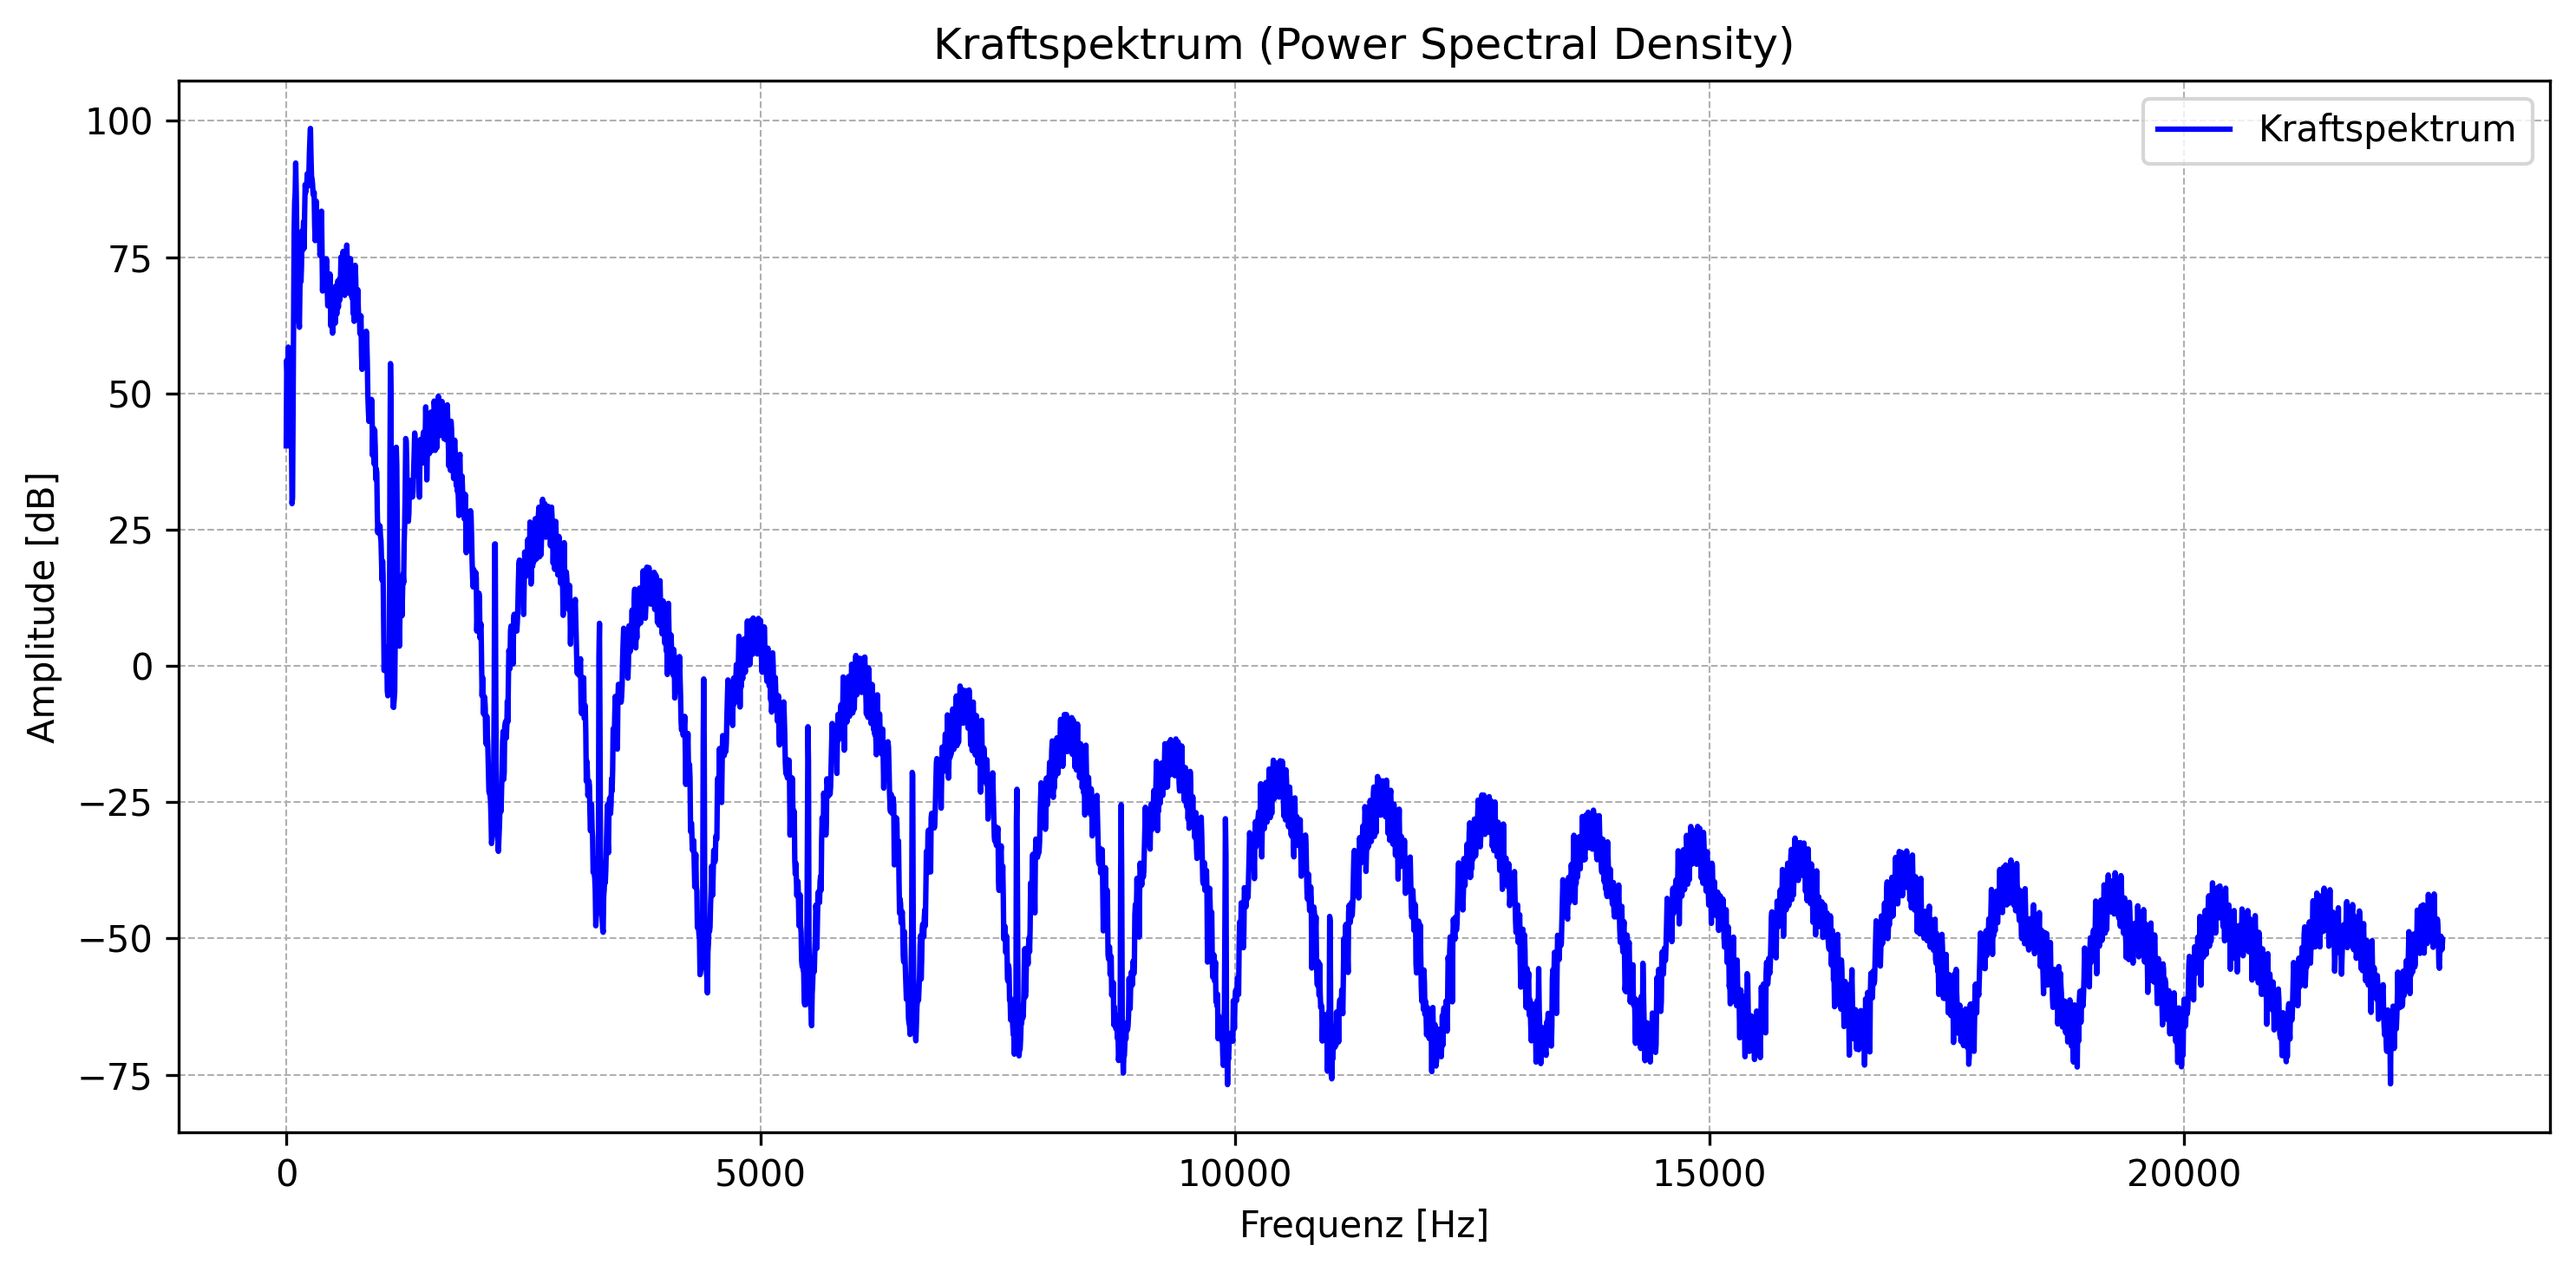
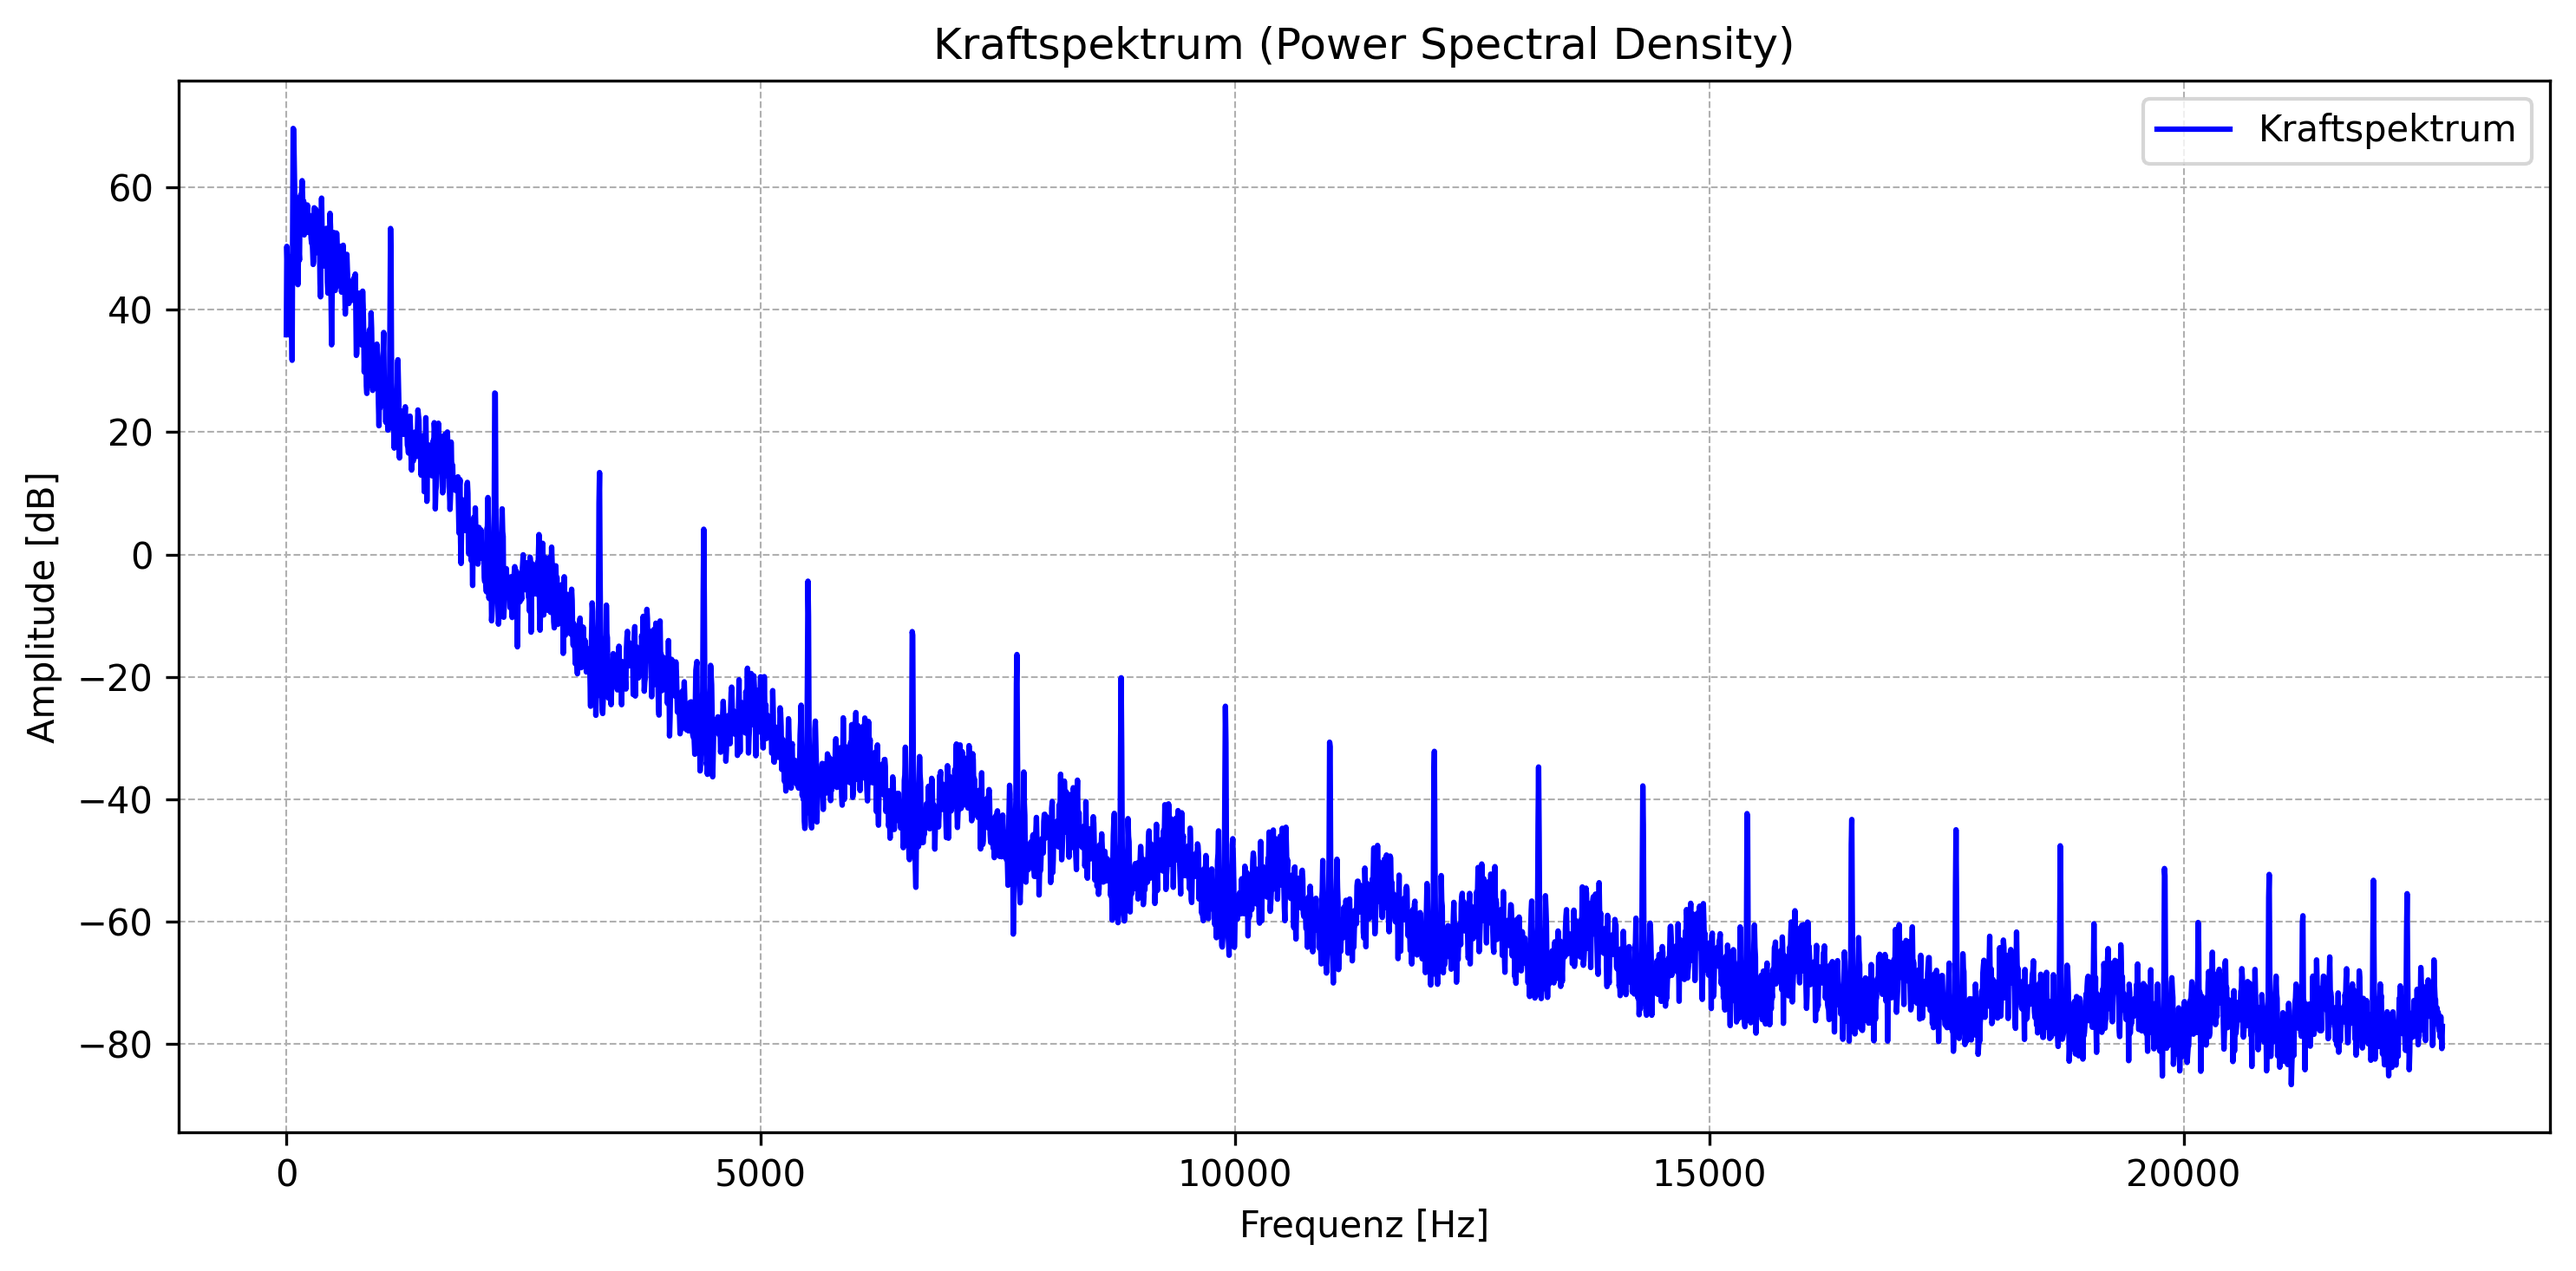
Hertz Calculation: --> without ramp --> without static part

diff --git a/rolland/deflection.py b/rolland/deflection.py
@@ -176,45 +176,29 @@ class DeflectionEBBVertic(Deflection):
 
         wheel_ID = 0
         for pos in excitation_pos:
-            if len(self.force) <= t and self.excit.use_contact_model:  # if force for current time step is not yet calculated and contact model is enabled, calculate force using Hertzian contact model
+            if self.excit.use_contact_model:
                 # Initialize variables for Hertzian contact calculation
-                force = -np.inf  # Initial force
-                max_iter = 100  # Maximum number of iterations
-                eps = 1e-6  # Convergence criterion
-
-
-
-                nu = self.track.rail.nu  # Poisson's ratio of the rail
-                G = self.track.rail.G  # Shear modulus of the rail
-                Ra = 0.35 # NOTE: hardcoded parameter, get from wheel geometry if available
-                alpha = 1 # NOTE: hardcoded parameter, get from wheel geometry if available
-                C = ((2*(1-nu))/(G*np.sqrt(Ra)))**(2/3) * alpha
-
-                static_force = self.excit.force_amplitude  # Static force at t=0, can be adjusted if needed
-                delta_0 = C*static_force**(2/3)  # Initial guess for penetration based on static force, can be adjusted if needed
-
-
-                # self.excit.roughness = list(8e-6 * np.random.randn(n))   # TODO: move roughness generation to excitation class and make it more realistic (e.g., using a power spectral density)
-
-
+                force       = -np.inf               # Initial force
+                max_iter    = 100                   # Maximum number of iterations
+                eps         = 1e-6                  # Convergence criterion
+                nu          = self.track.rail.nu    # Poisson's ratio of the rail
+                G           = self.track.rail.G     # Shear modulus of the rail
+                Ra          = 0.35                  # NOTE: hardcoded parameter, get from wheel geometry if available
+                alpha       = 1                     # NOTE: hardcoded parameter, get from wheel geometry if available
+                C           = ((2*(1-nu))/(G*np.sqrt(Ra)))**(2/3) * alpha
 
                 for i in range(max_iter):
-                    # TODO: function for interpolation --> handle on point
-                    # TODO: function for spreading --> also handle on point
-                    # TODO: fix this whole mess!!!
 
                     # Calculate rail deflection, roughness, and wheel deflection
                     y_r = self.interpolate(pos, u1)                     # Interpolated rail deflection at excitation point
                     y_s = self.interpolate(pos, self.excit.roughness)   # Interpolated track roughness at excitation point
-                    y_w = self.wheel_deflection[wheel_ID][t-1]                            # Wheel deflection TODO: add wheel deflection calculation
+                    y_w = self.wheel_deflection[wheel_ID][t-1]          # Wheel deflection
 
                     # Calculate geometric penetration
-                    # TODO: get this right, check directions of deflection and roughness, and add wheel deflection
-                    # y_r: rail deflection, positive if rail moves downwards
-                    delta_lin = self.y_static - y_r + y_s - y_w
-                    delta_lin += delta_0
+                    # y_r: rail deflection, positive if rail moves downwards TODO: flip it
+                    delta_lin = - y_r + y_s - y_w
 
-                    if delta_lin <= 0: # NOTE: should we check before adding delta_0?
+                    if delta_lin <= 0:
                         force = 0
                         self.force.append(force)  # Store the converged force value for the current time step
                         break
@@ -253,13 +237,9 @@ class DeflectionEBBVertic(Deflection):
             # k_w = 0
             # update wheel deflection, velocity, and acceleration
             self.wheel_acceleration[wheel_ID][t] = (force - k_w*self.wheel_deflection[wheel_ID][t-1] - d_w*self.wheel_velocity[wheel_ID][t-1]) / M_w
+            
             self.wheel_velocity[wheel_ID][t] = self.wheel_velocity[wheel_ID][t-1] + self.wheel_acceleration[wheel_ID][t] * self.discr.dt
             self.wheel_deflection[wheel_ID][t] = self.wheel_deflection[wheel_ID][t-1] + self.wheel_velocity[wheel_ID][t] * self.discr.dt
-
-
-
-
-
 
         return (self.discr.B.dot(u1) + self.discr.C.dot(u0) + self.discr.dt ** 2 /
                 (self.track.rail.mr * self.discr.dx) * f_vec)
@@ -291,63 +271,6 @@ class DeflectionEBBVertic(Deflection):
         
         # Factorization of matrix A (LU decomposition)
         self.factoriz = splu(self.discr.A)
-
-        
-
-        # # calculate static defletion at t=0 (initial condition)
-        # defl_static = zeros((2*self.discr.nx, 10000))   # TODO: put back to 3
-        # eps = 2e-6  # convergence criterion
-        # step = 0  # initialize time step for static deflection calculation
-        # diff = np.inf  # initialize difference for convergence check
-        # while diff > eps:  # iterate until convergence is met
-        #     # pos = step % 3  # position in the static deflection array (0, 1, or 2)  TODO: put back in use
-        #     self.crank_nicolson_step(defl_static, t=step, excitation_pos=self.excitation_indices)
-        #     if step > 1:
-        #         diff = np.max(np.abs( defl_static[:,step] - defl_static[:,step-1] ))  # update difference for convergence check
-        #     step += 1
-        #     if step == 10000:
-        #         break
-        #     # if step % 100 == 0:
-        #     #     print(f"Static deflection calculation - Step {step}, Max difference: {diff:.2e}")
-        # # TODO: line this up with the start of dynamic calculation
-        # defl[:, 0] = defl_static[:, step-1]  # set initial deflection to converged static deflection
-        # defl[:, -1] = defl_static[:, step-1]  # set deflection to be used for t-2 in first dynamic step to converged static deflection
-
-        
-
-        # # plot static deflection
-        # # =============================================================================
-        # # Create output directory for frames
-        # frames_dir = Path('frames')
-        # frames_dir.mkdir(exist_ok=True)
-
-        # # Clear the frames directory if it already exists
-        # if frames_dir.exists():
-        #     for file in frames_dir.glob('*'):
-        #         file.unlink()  # Delete each file in the directory
-        # else:
-        #     frames_dir.mkdir(exist_ok=True)  # Create the directory if it doesn't exist
-
-        # # Extract deflection data
-        # deflection_static = np.transpose(defl_static)
-        # deflection_static = -1 * deflection_static
-        # deflection_static = deflection_static[:, :deflection_static.shape[1] // 2]  # Take only the rail deflection_static part
-
-        # # Loop through each time step and save a frame as a PNG
-        # # for step in range(deflection_static.shape[0]): # loop through time steps
-        # #     if step//60==0 or step%100==0 or step==deflection_static.shape[0]-1:  # Save every 20th frame to reduce number of images
-        # plt.figure(figsize=(10, 5))
-        # plt.plot(deflection_static[-1, :], lw=2, label='statische Auslenkung')
-        # plt.xlim(0, deflection_static.shape[1])  # Set x-axis limits to the number of discrete points
-        # plt.ylim(np.min(deflection_static), np.max(deflection_static))
-        # plt.xlabel('Position [m]')
-        # plt.ylabel('Auslenkung [m]')
-        # # plt.title(f'statische Auslenkung bei unbewegter Last')
-        # plt.grid(True)
-        # plt.legend()  # Add legend to show labels
-        # plt.tight_layout()
-        # plt.savefig(frames_dir / f'final_static_deflection.png', dpi=300, bbox_inches='tight')
-        # plt.close()
 
 
         # nx = self.discr.nx

diff --git a/Moving_Force.py b/Moving_Force.py
@@ -53,7 +53,7 @@ static_force              = 65000.0 # Static force amplitude [N]
 cut_initial               = 10000   # Number of initial time steps to cut for frequency response calculation, to remove ramp-up effects
 freq_limit                = 2000
 
-use_precalculated_results   = True
+use_precalculated_results   = False
 use_contact_model           = True
 
 
@@ -218,6 +218,7 @@ for i, deflection in enumerate(deflection_results.contact_point_deflection):
 
 
 
+
     # =============================================================================
     # 7. PLOT FORCE SPECTRUM
     # =============================================================================
@@ -232,12 +233,27 @@ for i, deflection in enumerate(deflection_results.contact_point_deflection):
     plt.savefig(output_dir / 'force_spectrum.png', dpi=300, bbox_inches='tight')
     plt.close()
 
-
+    # =============================================================================
+    # 8. PLOT FORCE IN TIME DOMAIN
+    # =============================================================================
+    time_array = np.linspace(0, len(deflection_results.force) * dt, len(deflection_results.force))  # Time in seconds
+    plt.figure(figsize=(10, 5))
+    plt.plot(time_array, deflection_results.force, color='green', linewidth=1.5, label='Kraft im Zeitbereich')
+    plt.xlabel('Zeit [s]')
+    plt.ylabel('Kraft [N]')
+    plt.title('Kraftverlauf im Zeitbereich')
+    plt.grid(True, which='both', linestyle='--', linewidth=0.5)
+    plt.legend()
+    plt.tight_layout()
+    plt.savefig(output_dir / 'force_time_domain.png', dpi=300, bbox_inches='tight')
+    plt.close()
 
 
 
     # Filter to 0-2000 Hz
     mask = (freqs >= 0) & (freqs <= freq_limit)
+
+
 
     # plot individual velocity
     plt.plot(freqs[mask], 20*np.log10(np.abs(receptance[mask])), linewidth=1)
@@ -317,35 +333,13 @@ deflection = deflection[:, :deflection.shape[1] // 2]  # Take only the rail defl
 # Loop through each time step and save a frame as a PNG
 for t_idx in range(deflection.shape[0]): # loop through time steps
     if (t_idx%100==0 and t_idx//1000==0) or t_idx%1000==0:  # Save every 1000th frame to reduce number of images
-    # if t_idx in [1000, 4545, 37000]:  # Save specific frames of interest
-
-        # Set x-axis limits to focus on the region around the excitation point, with some padding
-        # upper_x = 1900
-        # lower_x = 1200
-
-        upper_x = deflection.shape[1]  # Set x-axis limits to the number of discrete points
+        # Set x-axis limits
+        upper_x = deflection.shape[1]  
         lower_x = 0
-        
-        # if t_idx == 1000:
-        #     upper_x = 1700
-        #     lower_x = 1400
-        # if t_idx == 4545:
-        #     upper_x = 1700
-        #     lower_x = 1400
-        # if t_idx == 37000:
-        #     upper_x = 3100
-        #     lower_x = 1450
 
-
-        # Set y-axis limits based on deflection range
+        # Set y-axis limits
         upper_y = np.max(deflection)
         lower_y = np.min(deflection)
-
-        # upper_y = 1e-4
-        # lower_y = -6e-4
-
-        # upper_y_zoom = 4e-5
-        # lower_y_zoom = -1e-5
 
         plt.figure(figsize=(10, 5))
         plt.plot(deflection[t_idx, :], lw=2, label='Auslenkung der Schiene')
@@ -377,6 +371,10 @@ for t_idx in range(deflection.shape[0]): # loop through time steps
         #     plt.tight_layout()
         #     plt.savefig(frames_dir / f'frame_{t_idx:04d}_adjusted_ylim.png', dpi=300, bbox_inches='tight')
         #     plt.close()
+
+
+
+
 
 
 # # 4.1 Plot deflection over time
@@ -453,4 +451,5 @@ for t_idx in range(deflection.shape[0]): # loop through time steps
 #     plt.tight_layout()
 #     plt.savefig(output_dir / 'quasi_static_force_excitation.png', dpi=300, bbox_inches='tight')
 #     plt.close()
+
 

diff --git a/rolland/excitation.py b/rolland/excitation.py
@@ -121,15 +121,16 @@ class MovingForce(MovingExcitation):
 
     def force(self, t):
         """Compute force array (contains force over time)."""
-        n = len(t)
-        force_array = []
-        self.ramp_length = int(self.ramp_fraction * n)
-        
-        # Linear ramp up
-        for i in range(self.ramp_length):
-            force_array.append(self.force_amplitude * (i / self.ramp_length))
-        
-        if not self.use_contact_model:
+        if self.use_contact_model:
+            return []  # force will be computed in the contact model based on roughness
+        else:
+            # Linear ramp up
+            n = len(t)
+            force_array = []
+            self.ramp_length = int(self.ramp_fraction * n)
+            for i in range(self.ramp_length):
+                force_array.append(self.force_amplitude * (i / self.ramp_length))
+            
             # random force between force_amplitude and 2*force_amplitude
             constant_part = [self.force_amplitude] * (n - self.ramp_length)
             np.random.seed(42)  # für Reproduzierbarkeit
@@ -140,4 +141,5 @@ class MovingForce(MovingExcitation):
             )
             # concatenating the rampup with the constant and random part
             force_array.extend(constant_part + random_part)
-        return force_array
+
+            return force_array
